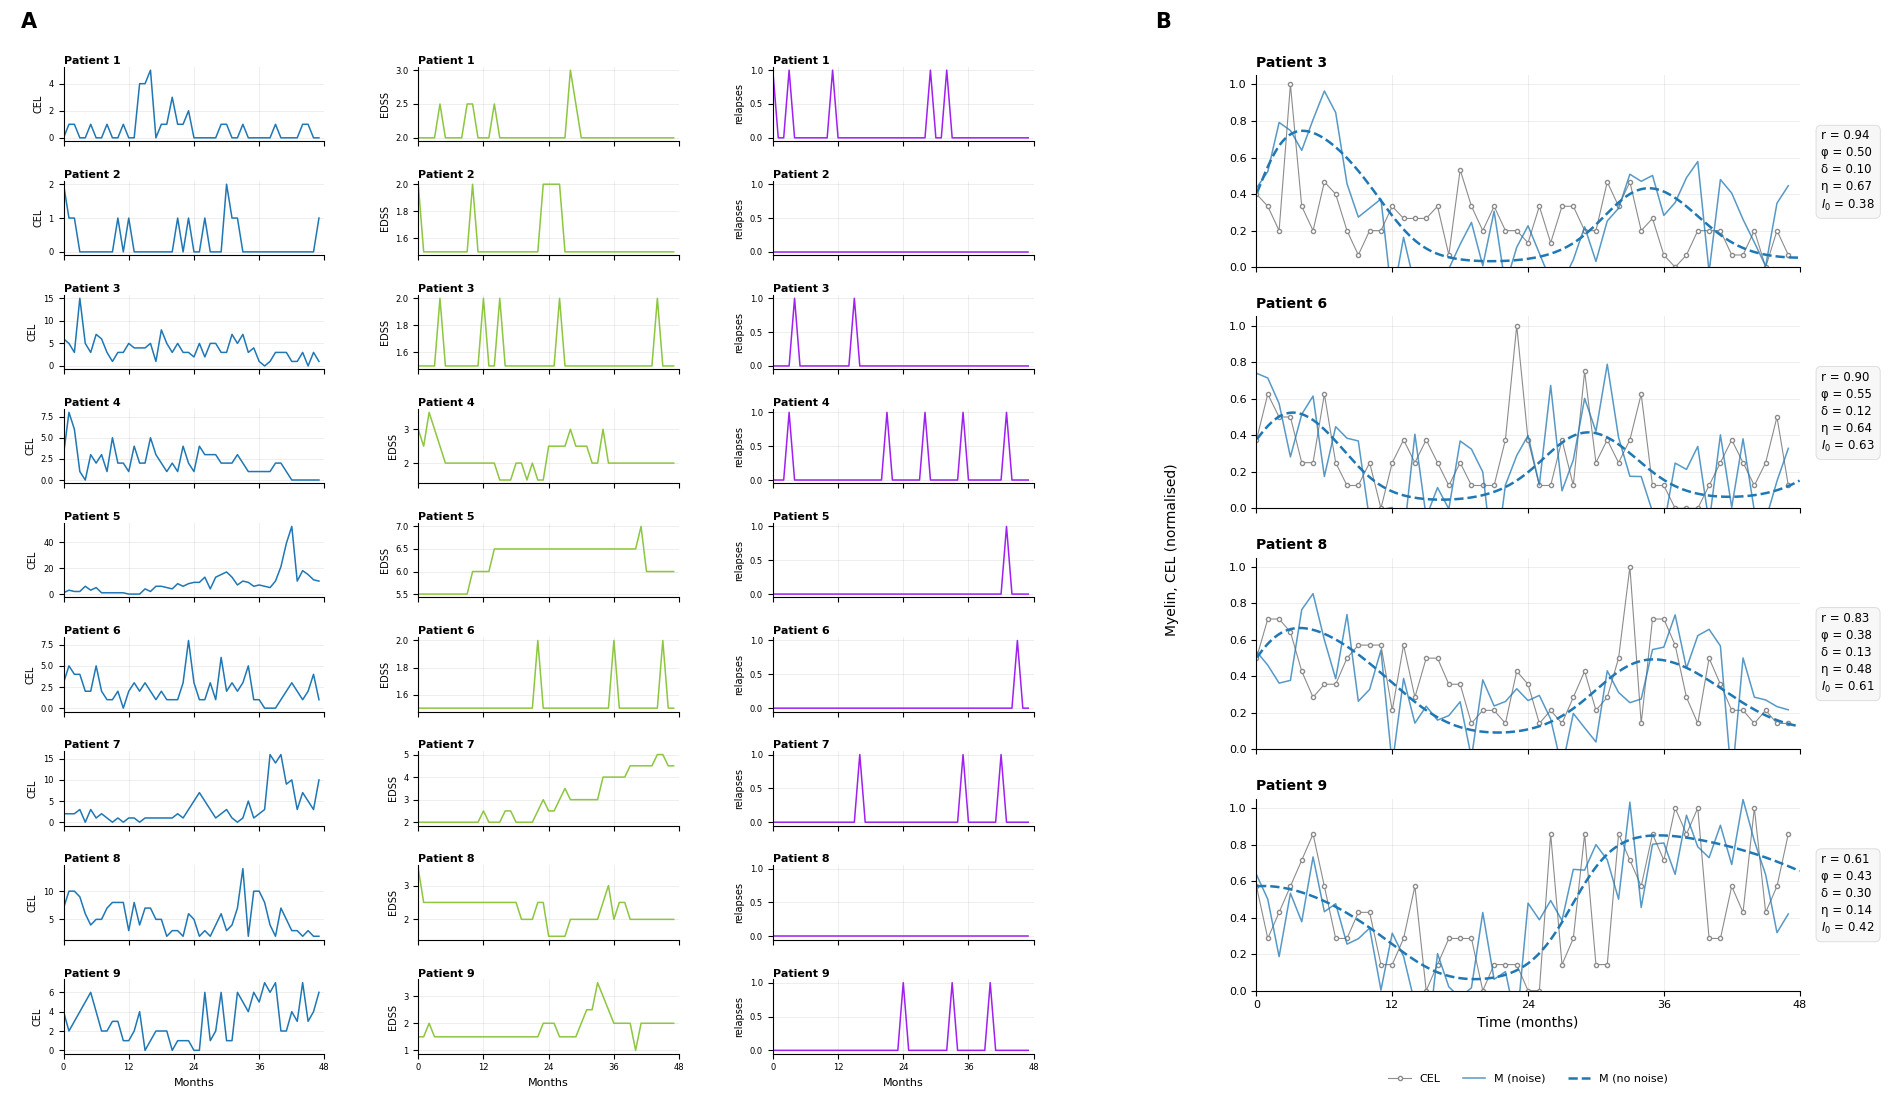
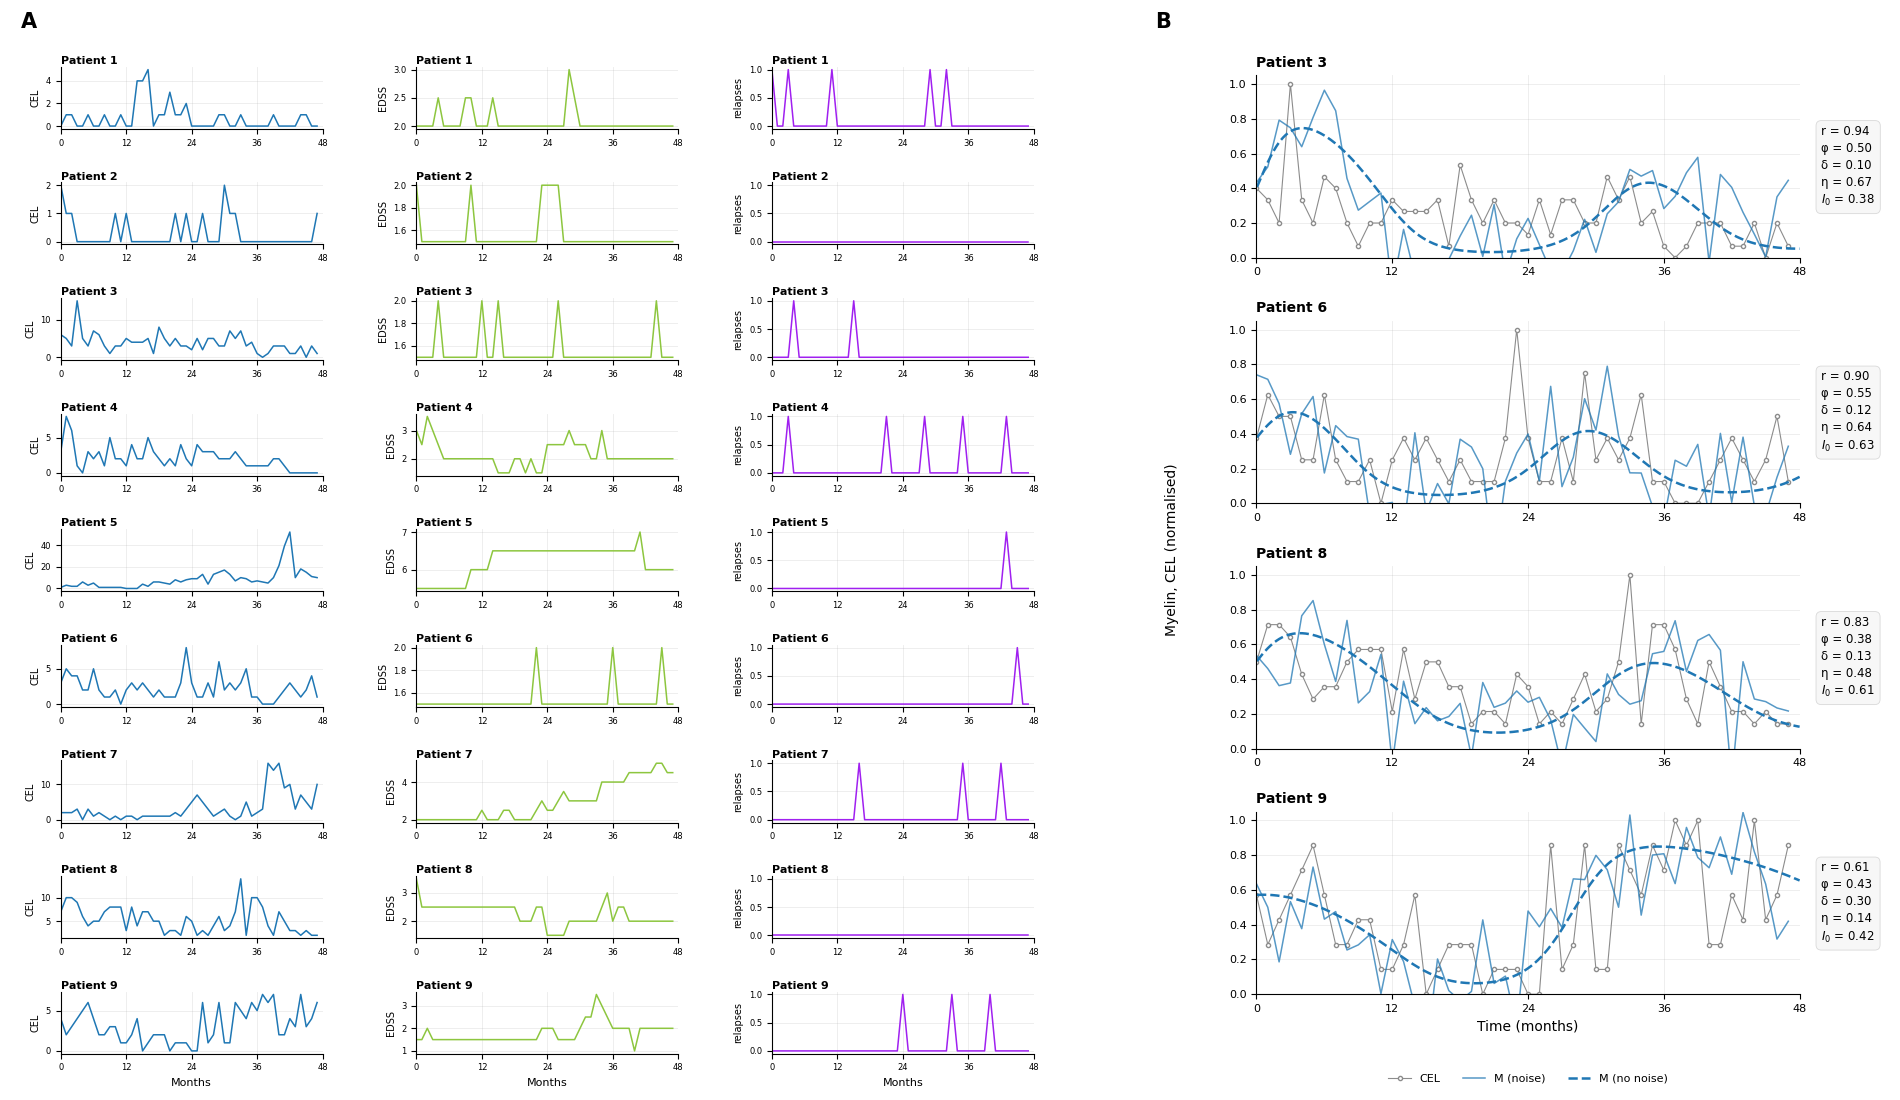
style fixes & f7_comp_500months added

diff --git a/main.py b/main.py
@@ -268,7 +268,7 @@ def figure7(path='12918_2010_719_MOESM3_ESM.XLS',
         ax.spines[['top', 'right']].set_visible(False)
 
     # ---------- A: dades crues, 9 pacients x (CEL, EDSS, brots) ----------
-    axesA = figA.subplots(len(data), 3, sharex=True)
+    axesA = figA.subplots(len(data), 3)
     for i, p in enumerate(sorted(data)):
         for j, key in enumerate(('CEL', 'EDSS', 'RELAPSES')):
             ax = axesA[i, j]
@@ -284,7 +284,7 @@ def figure7(path='12918_2010_719_MOESM3_ESM.XLS',
     figA.suptitle('A', fontsize=15, fontweight='bold', x=0.02, ha='left')
 
     # ---------- B: model ajustat vs CEL normalitzat ----------
-    axesB = figB.subplots(len(fits), 1, sharex=True)
+    axesB = figB.subplots(len(fits), 1)
     for ax, (p, f) in zip(axesB, fits.items()):
         cel = data[p]['CEL'] / data[p]['CEL'].max()          # normalitza per pacient
 
@@ -318,6 +318,7 @@ def figure7(path='12918_2010_719_MOESM3_ESM.XLS',
 
     plt.show()
 
+
 def comparaison_7(path='12918_2010_719_MOESM3_ESM.XLS',
             fits={3: dict(r=0.94, phi=0.50, delta=0.10, eta=0.67, I0=0.38),
                   6: dict(r=0.90, phi=0.55, delta=0.12, eta=0.64, I0=0.63),
@@ -325,7 +326,8 @@ def comparaison_7(path='12918_2010_719_MOESM3_ESM.XLS',
                   9: dict(r=0.61, phi=0.43, delta=0.30, eta=0.14, I0=0.42)},
             noise=0.2, seed=0, paper=PAPER, cesc=CESC):
     data = load_patients(path)
-    months = np.arange(0, 48)                 # el primer mes de dades es col·loca a t = 0, com al paper
+    t_final = 48
+    months = np.arange(0, t_final)                 # el primer mes de dades es col·loca a t = 0, com al paper
     rng = np.random.default_rng(seed)
 
     C_PAPER, C_EXT, C_CEL = '#1f77b4', '#ec8633', '0.55'
@@ -335,9 +337,9 @@ def comparaison_7(path='12918_2010_719_MOESM3_ESM.XLS',
     fig.get_layout_engine().set(w_pad=0.25, h_pad=0.12, wspace=0.0, hspace=0.04)
     figA, figB, figC = fig.subfigures(1, 3, width_ratios=[1, 1, 1.1], wspace=0.08)
 
-    def style(ax, p, f, I0):
+    def style(ax, p, f, I0, t_final):
         ax.set_title(f'Patient {p}', fontsize=10, loc='left', fontweight='bold')
-        ax.set_xlim(0, 48); ax.set_ylim(0, 1.05)
+        ax.set_xlim(0, t_final); ax.set_ylim(0, 1.05)
         ax.set_xticks(range(0, 49, 12))
         ax.grid(alpha=0.25, lw=0.6)
         ax.spines[['top', 'right']].set_visible(False)
@@ -356,7 +358,7 @@ def comparaison_7(path='12918_2010_719_MOESM3_ESM.XLS',
         subfig.suptitle(title, fontsize=15, fontweight='bold', x=0.02, ha='left')
 
     # ---------- A: dades crues, 9 pacients x (CEL, EDSS, brots) ----------
-    axesA = figA.subplots(len(fits), 1, sharex=True)
+    axesA = figA.subplots(len(fits), 1)
     for ax, (p, f) in zip(axesA, fits.items()):
         cel = data[p]['CEL'] / data[p]['CEL'].max()          # normalitza per pacient
 
@@ -372,11 +374,11 @@ def comparaison_7(path='12918_2010_719_MOESM3_ESM.XLS',
         ax.plot(months, cel, 'o-', color=C_CEL, mfc='white', ms=3, lw=0.8, label='CEL')
         ax.plot(months, M_noisy, '-', color=C_PAPER, lw=1.1, alpha=0.75, label='M (noise)')
         ax.plot(t, M, '--', color=C_PAPER, lw=1.8, label='M (no noise)')
-        style(ax, p, f, I0)
+        style(ax, p, f, I0, t_final)
     finish(figA, axesA, 'Paper', ncol=3)
 
     # ---------- B: model ajustat vs CEL normalitzat ----------
-    axesB = figB.subplots(len(fits), 1, sharex=True)
+    axesB = figB.subplots(len(fits), 1)
     for ax, (p, f) in zip(axesB, fits.items()):
         cel = data[p]['CEL'] / data[p]['CEL'].max()          # normalitza per pacient
 
@@ -390,31 +392,34 @@ def comparaison_7(path='12918_2010_719_MOESM3_ESM.XLS',
         ax.plot(months, cel, 'o-', color=C_CEL, mfc='white', ms=3, lw=0.8, label='CEL')
         ax.plot(months, M_noisy, '-', color=C_EXT, lw=1.1, alpha=0.75, label='M (noise)')
         ax.plot(t, M, '--', color=C_EXT, lw=1.8, label='M (no noise)')
-        style(ax, p, f, I0)
+        style(ax, p, f, I0, t_final)
     finish(figB, axesB, 'Extension', ncol=3)
 
     # ---------- C: model comparaisons ----------
-    axesC = figC.subplots(len(fits), 1, sharex=True)
+    t_final = 500
+    months = np.arange(0, t_final)
+    axesC = figC.subplots(len(fits), 1)
     for ax, (p, f) in zip(axesC, fits.items()):
         cel = data[p]['CEL'] / data[p]['CEL'].max()          # normalitza per pacient
 
         f = dict(f); I0 = f.pop('I0')
-        d_paper = solve(paper.with_params(**f).with_initial(M=cel[0], I=I0), t_final=48, dt=0.05)
-        d_cesc = solve(cesc.with_params(**f).with_initial(M=cel[0], I=I0), t_final=48, dt=0.05)
+        d_paper = solve(paper.with_params(**f).with_initial(M=cel[0], I=I0), t_final=t_final, dt=0.05)
+        d_cesc = solve(cesc.with_params(**f).with_initial(M=cel[0], I=I0), t_final=t_final, dt=0.05)
         t, M_paper = np.array(d_paper['t']), np.array(d_paper['M'])
         t, M_cesc = np.array(d_cesc['t']), np.array(d_cesc['M'])
 
         M_noisy_paper = np.interp(months, t, M_paper) + rng.normal(0, noise * cel.max(), size=months.size)
         M_noisy_cesc = np.interp(months, t, M_cesc) + rng.normal(0, noise * cel.max(), size=months.size)
 
-        ax.plot(months, M_noisy_paper, '-', color=C_PAPER, lw=1.1, alpha=0.75, label='M paper (noise)')
-        ax.plot(months, M_noisy_cesc, '-', color=C_EXT, lw=1.1, alpha=0.75, label='M extension (noise)')
+        ax.plot(months, M_noisy_paper, '-', color=C_PAPER, lw=1.1, alpha=0.25, label='M paper (noise)')
+        ax.plot(months, M_noisy_cesc, '-', color=C_EXT, lw=1.1, alpha=0.25, label='M extension (noise)')
         ax.plot(t, M_paper, '--', color=C_PAPER, lw=1.8, label='M paper (no noise)')
         ax.plot(t, M_cesc, '--', color=C_EXT, lw=1.8, label='M extension (no noise)')
-        style(ax, p, f, I0)
+        style(ax, p, f, I0, t_final)
     finish(figC, axesC, 'Comparison', ncol=2)
 
     plt.show()
+
 
 def transient(spec=CESC, phis=(0.2, 0.45, 0.7), debug=False):
     plt.figure(figsize=(13, 5))
@@ -444,13 +449,14 @@ def transient(spec=CESC, phis=(0.2, 0.45, 0.7), debug=False):
     plt.tight_layout()
     plt.show()
 
+
 def main():
     # figure2()
     # figure3()
     # figure4()
     # figure6(n=30, dt=0.1, t_final=2000)
     # transient(debug=False)
-    figure7()
+    # figure7()
     comparaison_7()
 
 
